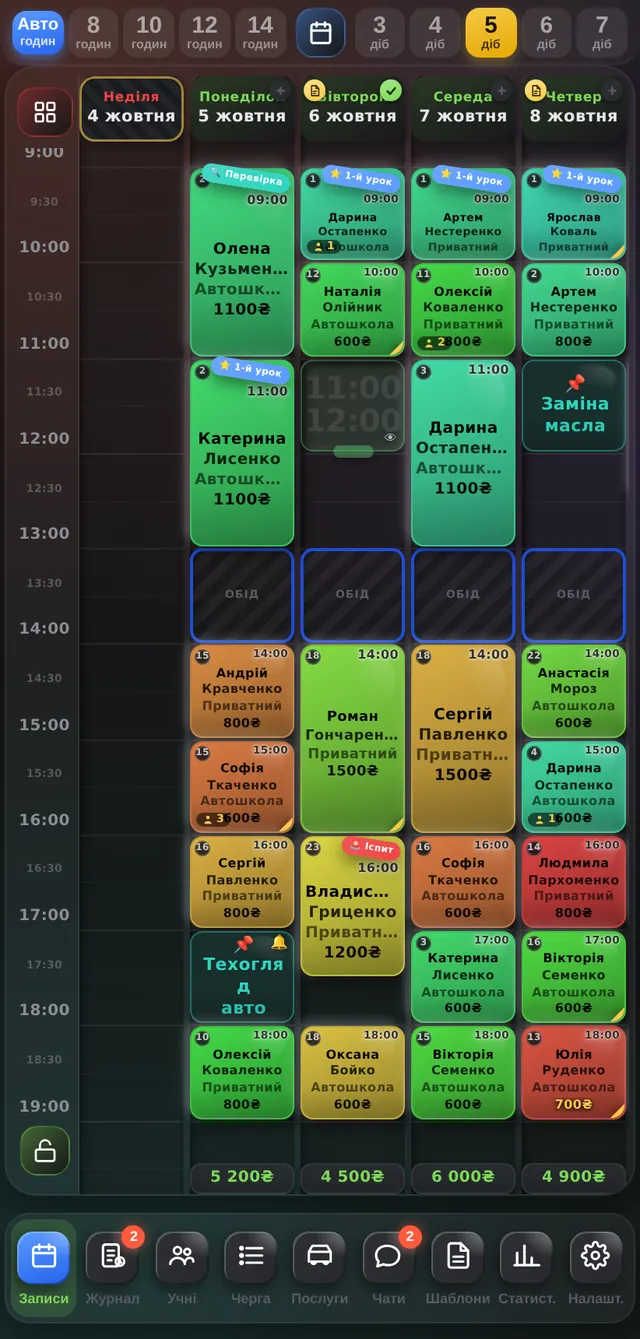
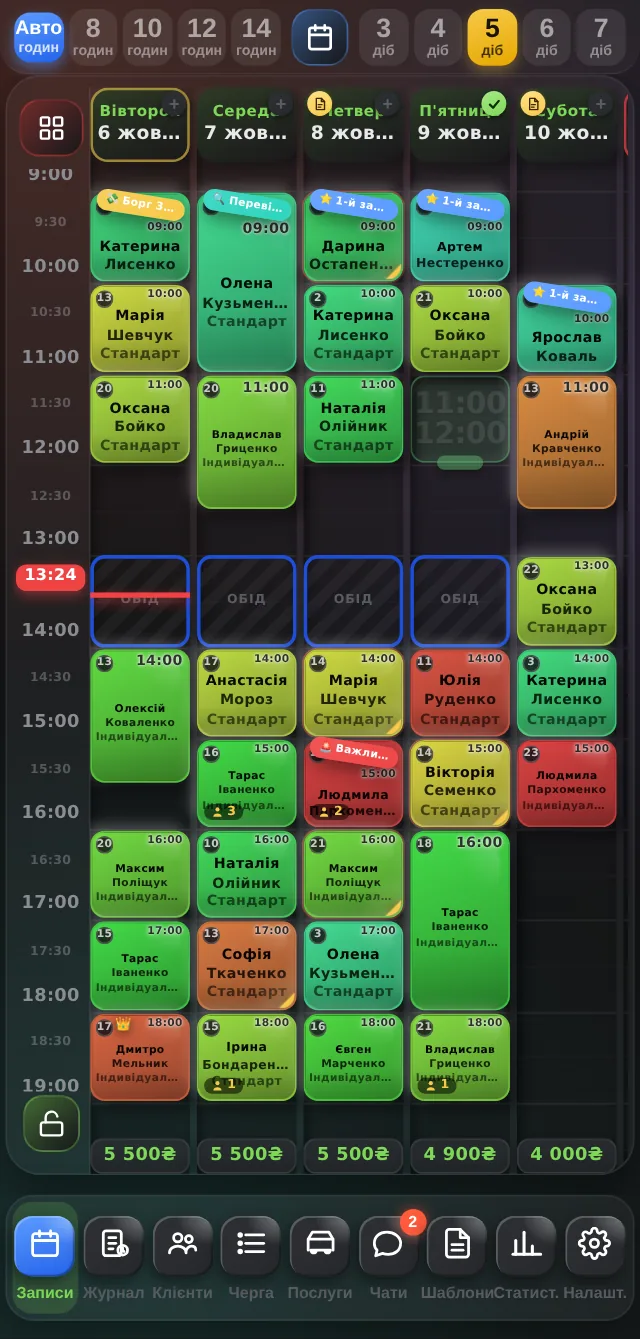
v06.10.3 — прибрано «Цілі запису» (клієнт); лендинг: справочник по розкладу пересобрано з новим скриншотом
Claude-Session: https://claude.ai/code/session_01F5x8mQ4ZW74JYN9AP9pVdP

diff --git a/landing/index.html b/landing/index.html
@@ -145,7 +145,7 @@
   </div>
 </div></section>
 
-<section id="guide" style="display:none" hidden><div class="wrap">
+<section id="guide"><div class="wrap">
   <div class="center"><span class="eyebrow">Розклад</span><h2 class="sec-title">Усе на одному екрані</h2><p class="sec-sub">Кожен значок у розкладі щось означає. Наведіть на пункт списку — екран наблизиться до потрібного місця.</p></div>
   <div class="guide">
     <svg class="garrow" aria-hidden="true"><defs><marker id="gah" viewBox="0 0 10 10" refX="8" refY="5" markerWidth="7" markerHeight="7" orient="auto-start-reverse"><path d="M0,0 L10,5 L0,10 z" fill="#ff8a70"/></marker></defs><path class="gpath" d="" marker-end="url(#gah)"/></svg>
@@ -155,16 +155,17 @@
       </div><i class="gring" aria-hidden="true"></i></div>
     </div>
     <ol class="glist">
-      <li data-n="1" data-ico="🔭" data-x="23.3" data-y="2.38" data-w="42.7" data-h="3.72" tabindex="0"><div><b>Масштаб під себе</b><span>«Авто» та «8–14 годин» — скільки годин робочого дня на екрані, «3–7 діб» — скільки днів поряд.</span></div></li>
-      <li data-n="2" data-ico="📅" data-x="50" data-y="2.38" data-w="7.79" data-h="3.72" tabindex="0"><div><b>Місячний календар</b><span>Один дотик — і ви на будь-якій даті.</span></div></li>
-      <li data-n="3" data-ico="🗓" data-x="55.11" data-y="8.14" data-w="16.3" data-h="4.88" tabindex="0"><div><b>Шапка дня</b><span>✓ — у дні є вільні слоти, «+» — слотів немає (дотик створить їх за графіком). 📄 — нотатка до дня.</span></div></li>
-      <li data-n="4" data-ico="🎨" data-x="37.83" data-y="33.83" data-w="16.3" data-h="14.01" tabindex="0"><div><b>Колір картки — колір клієнта</b><span>Кожен клієнт має свій колір, тож розклад читається з одного погляду.</span></div></li>
-      <li data-n="5" data-ico="⭐" data-x="54.02" data-y="13.38" data-w="18.48" data-h="2.74" tabindex="0"><div><b>Номер запису й автомітка</b><span>Число в кружку — номер запису цього клієнта. ⭐ «1-й запис» з'являється сама.</span></div></li>
-      <li data-n="6" data-ico="🏷" data-x="38.39" data-y="13.32" data-w="14.21" data-h="2.4" tabindex="0"><div><b>Свої мітки</b><span>🔍 «Перевірка», 🚨 «Важливо», 💸 «Борг» ви ставите вручну — щоб нічого не забути.</span></div></li>
-      <li data-n="7" data-ico="👥" data-x="33.1" data-y="61.2" data-w="7.8" data-h="2.2" tabindex="0"><div><b>Черга на слот</b><span>👤 — скільки клієнтів чекають цей час. Якщо запис скасують, слот автоматично запропонують наступному.</span></div></li>
-      <li data-n="8" data-ico="📝" data-x="61.92" data-y="25.95" data-w="5.5" data-h="2.2" tabindex="0"><div><b>Нотатка від клієнта</b><span>Жовтий куточок — клієнт залишив вам повідомлення до запису.</span></div></li>
-      <li data-n="9" data-ico="💰" data-x="55.11" data-y="88.02" data-w="16.3" data-h="2.33" tabindex="0"><div><b>Дохід за день</b><span>Сума внизу колонки — скільки ви заробляєте цього дня.</span></div></li>
-      <li data-n="10" data-ico="🔑" data-x="6.93" data-y="8.37" data-w="11.68" data-h="3.72" tabindex="0"><div><b>Ключик і замок</b><span>▦ створює слоти за графіком на кілька днів одним дотиком, 🔒 захищає розклад від випадкових змін.</span></div></li>
+      <li data-n="1" data-ico="🔭" data-x="49.17" data-y="2.79" data-w="93.33" data-h="3.45" tabindex="0"><div><b>Масштаб під себе</b><span>«Авто» та «8–14 годин» — скільки годин робочого дня на екрані, «3–7 діб» — скільки днів поряд.</span></div></li>
+      <li data-n="2" data-ico="📅" data-x="50.0" data-y="3.05" data-w="9.44" data-h="3.72" tabindex="0"><div><b>Місячний календар</b><span>Один дотик — і ви на будь-якій даті.</span></div></li>
+      <li data-n="3" data-ico="🗓" data-x="71.94" data-y="8.76" data-w="15.56" data-h="6.64" tabindex="0"><div><b>Шапка дня</b><span>✓ — у дні є вільні слоти, «+» — слотів немає (дотик створить їх за графіком). 📄 — нотатка до дня.</span></div></li>
+      <li data-n="4" data-ico="🎨" data-x="38.47" data-y="21.05" data-w="15.28" data-h="13.41" tabindex="0"><div><b>Колір картки — колір клієнта</b><span>Кожен клієнт має свій колір, тож розклад читається з одного погляду.</span></div></li>
+      <li data-n="5" data-ico="⭐" data-x="55.42" data-y="15.21" data-w="14.72" data-h="2.66" tabindex="0"><div><b>Номер запису й автомітка</b><span>Число в кружку — номер запису цього клієнта. ⭐ «1-й запис» з'являється сама.</span></div></li>
+      <li data-n="6" data-ico="🏷" data-x="38.75" data-y="15.21" data-w="14.17" data-h="2.52" tabindex="0"><div><b>Свої мітки</b><span>🔍 «Перевірка», 🚨 «Важливо», 💸 «Борг» ви ставите вручну — щоб нічого не забути.</span></div></li>
+      <li data-n="7" data-ico="👥" data-x="35.42" data-y="60.56" data-w="6.11" data-h="1.46" tabindex="0"><div><b>Черга на слот</b><span>👤 — скільки клієнтів чекають цей час. Якщо запис скасують, слот автоматично запропонують наступному.</span></div></li>
+      <li data-n="8" data-ico="📝" data-x="61.67" data-y="19.92" data-w="2.78" data-h="1.33" tabindex="0"><div><b>Нотатка від клієнта</b><span>Жовтий куточок — клієнт залишив вам повідомлення до запису.</span></div></li>
+      <li data-n="9" data-ico="💰" data-x="71.94" data-y="86.32" data-w="15.56" data-h="2.66" tabindex="0"><div><b>Дохід за день</b><span>Сума внизу колонки — скільки ви заробляєте цього дня.</span></div></li>
+      <li data-n="10" data-ico="▦" data-x="7.92" data-y="9.43" data-w="9.72" data-h="4.12" tabindex="0"><div><b>Створення слотів</b><span>▦ створює слоти за графіком на кілька днів одним дотиком.</span></div></li>
+      <li data-n="11" data-ico="🔒" data-x="8.06" data-y="83.93" data-w="8.89" data-h="3.98" tabindex="0"><div><b>Замок розкладу</b><span>🔒 захищає розклад від випадкових змін: поки замок закритий, нічого не зсунеться випадково.</span></div></li>
     </ol>
   </div>
 </div></section>

diff --git a/src/version.js b/src/version.js
@@ -1,1 +1,1 @@
-export const APP_VERSION = "v06.10.2";
+export const APP_VERSION = "v06.10.3";
